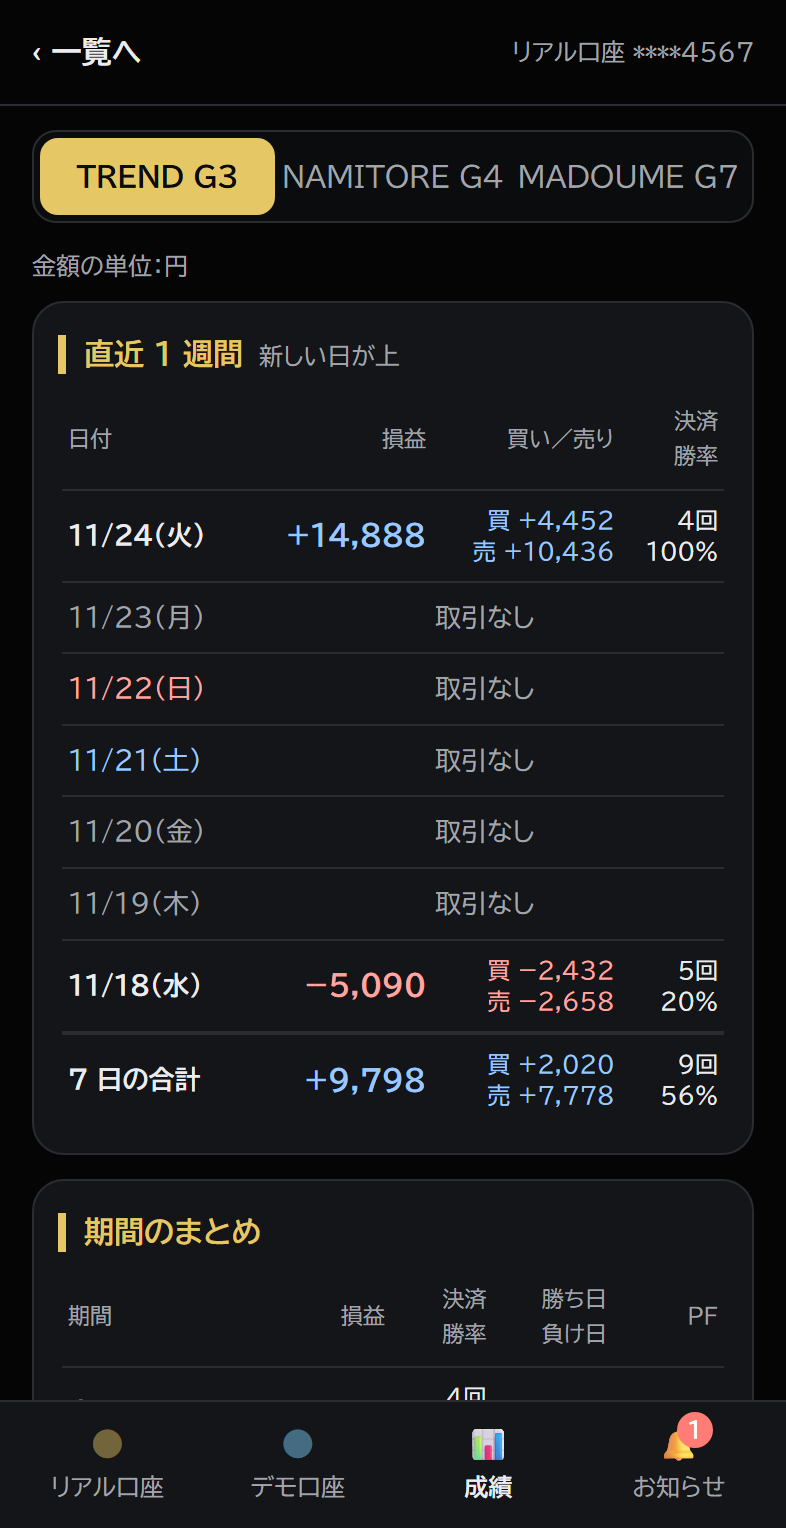
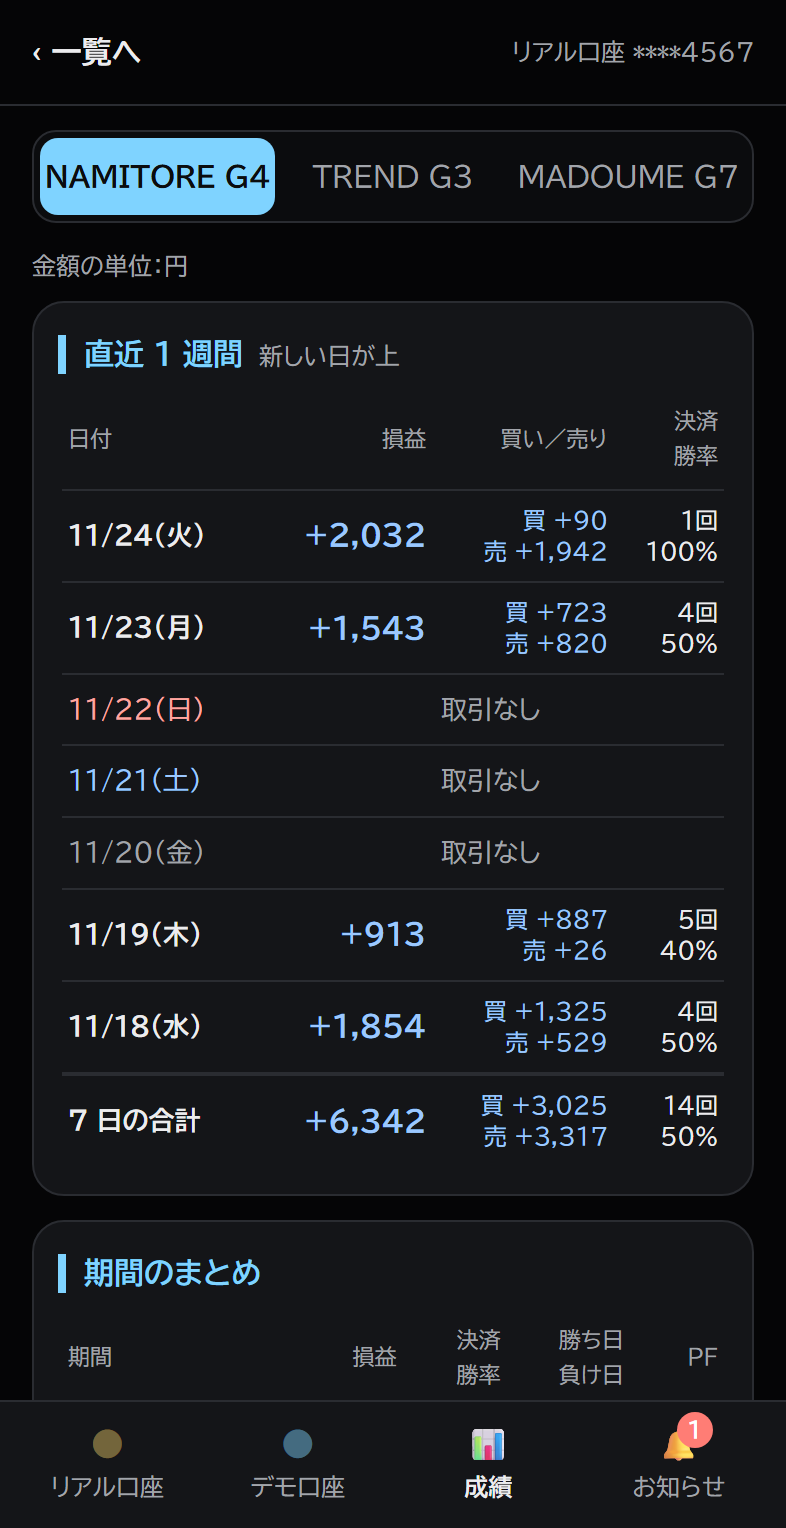
EA の並びを ナミ → トレ → マド に（トップ・メニュー・セットアップ・FAQ・リモート）、TOP の見出しを HAMA EA REPORT に

diff --git a/index.html b/index.html
@@ -50,7 +50,7 @@
   <button class="menu-btn" type="button" aria-label="メニュー" aria-expanded="false" onclick="var h=this.closest('header');var o=h.classList.toggle('open');this.setAttribute('aria-expanded',o)"><span></span><span></span><span></span></button>
   <nav class="menu">
     <a href="index.html" class="on">TOP</a>
-    <div class="dd"><button class="dd-btn" type="button" aria-haspopup="true" aria-expanded="false" onclick="var d=this.parentNode;var o=d.classList.toggle('open');this.setAttribute('aria-expanded',o)">EA<span class="dd-ar">▾</span></button><div class="dd-menu"><a href="tre.html">TREND G3</a><a href="nami.html">NAMITORE G4</a><a href="mado.html">MADOUME G7</a></div></div>
+    <div class="dd"><button class="dd-btn" type="button" aria-haspopup="true" aria-expanded="false" onclick="var d=this.parentNode;var o=d.classList.toggle('open');this.setAttribute('aria-expanded',o)">EA<span class="dd-ar">▾</span></button><div class="dd-menu"><a href="nami.html">NAMITORE G4</a><a href="tre.html">TREND G3</a><a href="mado.html">MADOUME G7</a></div></div>
     <a href="setup.html">SETUP</a>
     <a href="license.html">LICENSE</a>
     <a href="report.html">REPORT</a>
@@ -73,21 +73,21 @@
     <img class="hero-candles" src="img/hero_candles.svg?v=2" alt="">
    </div>
   </div>
-  <a class="hs-slide hs-ea" href="tre.html" style="--c:#d9b54a;--c2:#fff1b8" aria-roledescription="slide" aria-label="2 / 6">
-   <div class="hs-bg" style="background-image:url(img/trend_cover.jpg)"></div>
-   <div class="wrap hs-in">
-    <span class="hs-nick">トレンド追従</span>
-    <p class="hs-title">HAMA TREND G3</p>
-    <p class="hs-desc">トレンドが出ている間だけ、その方向に、<br>価格が逆に動くたび決まった間隔で<br>最大 3 本までポジションを足していく EA です。</p>
-    <span class="hs-more">VIEW MORE →</span>
-   </div>
-  </a>
-  <a class="hs-slide hs-ea" href="nami.html" style="--c:#4dc3ff;--c2:#bfe9ff" aria-roledescription="slide" aria-label="3 / 6">
+  <a class="hs-slide hs-ea" href="nami.html" style="--c:#4dc3ff;--c2:#bfe9ff" aria-roledescription="slide" aria-label="2 / 6">
    <div class="hs-bg" style="background-image:url(img/namitore_cover.jpg)"></div>
    <div class="wrap hs-in">
     <span class="hs-nick">レンジ（逆張り）</span>
     <p class="hs-title">HAMA NAMITORE G4</p>
     <p class="hs-desc">攻めと守りの「ダブルロジック」で、<br>金の“波”をとらえるレンジ EA。</p>
+    <span class="hs-more">VIEW MORE →</span>
+   </div>
+  </a>
+  <a class="hs-slide hs-ea" href="tre.html" style="--c:#d9b54a;--c2:#fff1b8" aria-roledescription="slide" aria-label="3 / 6">
+   <div class="hs-bg" style="background-image:url(img/trend_cover.jpg)"></div>
+   <div class="wrap hs-in">
+    <span class="hs-nick">トレンド追従</span>
+    <p class="hs-title">HAMA TREND G3</p>
+    <p class="hs-desc">トレンドが出ている間だけ、その方向に、<br>価格が逆に動くたび決まった間隔で<br>最大 3 本までポジションを足していく EA です。</p>
     <span class="hs-more">VIEW MORE →</span>
    </div>
   </a>
@@ -110,6 +110,7 @@
     </div>
     <div class="hs-phones"><img src="img/report_monitor.png" alt="成績表の画面のイメージ（架空の数値）"></div>
    </div>
+  </a>
   <a class="hs-slide hs-ea hs-remote" href="app.html" style="--c:#ff4f9a;--c2:#ffc2dc" aria-roledescription="slide" aria-label="6 / 6">
    <div class="wrap hs-in hs-split">
     <div>
@@ -160,21 +161,21 @@
   <p class="wait-note"><b>条件がそろうまで、じっと待つ EA です。</b><br>HAMA の EA は、決められた条件がそろったときだけエントリーします。短い時間にエントリーと決済を何度もくり返すタイプの EA ではないので、取引のない日が続くこともあります。</p>
   <h3 class="cat xau">ゴールド（XAUUSD）</h3>
   <div class="cards rows">
-    <a class="card ea-tre" href="tre.html">
-      <div class="img" style="background-image:url(img/trend_cover.jpg)"></div>
-      <div class="body">
-        <span class="nick">トレンド追従</span>
-        <h3>HAMA TREND G3</h3>
-        <p>トレンドが出ている間だけ、その方向に、<br>価格が逆に動くたび決まった間隔で最大 3 本まで<br>ポジションを足していく EA です。</p>
-        <span class="more">VIEW MORE <i>→</i></span>
-      </div>
-    </a>
     <a class="card ea-nami" href="nami.html">
       <div class="img" style="background-image:url(img/namitore_cover.jpg)"></div>
       <div class="body">
         <span class="nick">レンジ（逆張り）</span>
         <h3>HAMA NAMITORE G4</h3>
         <p>攻めと守りの「ダブルロジック」で、金の“波”をとらえるレンジ EA。</p>
+        <span class="more">VIEW MORE <i>→</i></span>
+      </div>
+    </a>
+    <a class="card ea-tre" href="tre.html">
+      <div class="img" style="background-image:url(img/trend_cover.jpg)"></div>
+      <div class="body">
+        <span class="nick">トレンド追従</span>
+        <h3>HAMA TREND G3</h3>
+        <p>トレンドが出ている間だけ、その方向に、<br>価格が逆に動くたび決まった間隔で最大 3 本まで<br>ポジションを足していく EA です。</p>
         <span class="more">VIEW MORE <i>→</i></span>
       </div>
     </a>
@@ -191,7 +192,7 @@
 </div></section>
 
 <section><div class="wrap">
-  <h2>成績表</h2>
+  <h2>HAMA EA REPORT</h2>
   <p class="sub">HAMA の EA には、口座の成績をまとめて見られる成績表が付いています。</p>
   <div class="cards rows">
     <a class="card ea-report" href="report.html">

diff --git a/faq.html b/faq.html
@@ -17,7 +17,7 @@
   <button class="menu-btn" type="button" aria-label="メニュー" aria-expanded="false" onclick="var h=this.closest('header');var o=h.classList.toggle('open');this.setAttribute('aria-expanded',o)"><span></span><span></span><span></span></button>
   <nav class="menu">
     <a href="index.html">TOP</a>
-    <div class="dd"><button class="dd-btn" type="button" aria-haspopup="true" aria-expanded="false" onclick="var d=this.parentNode;var o=d.classList.toggle('open');this.setAttribute('aria-expanded',o)">EA<span class="dd-ar">▾</span></button><div class="dd-menu"><a href="tre.html">TREND G3</a><a href="nami.html">NAMITORE G4</a><a href="mado.html">MADOUME G7</a></div></div>
+    <div class="dd"><button class="dd-btn" type="button" aria-haspopup="true" aria-expanded="false" onclick="var d=this.parentNode;var o=d.classList.toggle('open');this.setAttribute('aria-expanded',o)">EA<span class="dd-ar">▾</span></button><div class="dd-menu"><a href="nami.html">NAMITORE G4</a><a href="tre.html">TREND G3</a><a href="mado.html">MADOUME G7</a></div></div>
     <a href="setup.html">SETUP</a>
     <a href="license.html">LICENSE</a>
     <a href="report.html">REPORT</a>
@@ -39,7 +39,7 @@
 <section><div class="wrap">
   <h2>はじめる前に</h2>
   <details><summary>EA ごとのちがいは？</summary><div class="a">
-    <p>EA ごとに、取引の考え方（ロジック）がちがいます。TREND は大きなトレンドの方向に建てる EA、NAMITORE は行ったり来たりの値動き（レンジ）で逆張りする EA、MADOUME はトレンド中の押し目・戻りで積み増す EA です。くわしい動き方は、各 EA のページと説明書をご覧ください。</p>
+    <p>EA ごとに、取引の考え方（ロジック）がちがいます。NAMITORE は行ったり来たりの値動き（レンジ）で逆張りする EA、TREND は大きなトレンドの方向に建てる EA、MADOUME はトレンド中の押し目・戻りで積み増す EA です。くわしい動き方は、各 EA のページと説明書をご覧ください。</p>
     <p>どの EA を使うか、いくつ組み合わせるかは、ご自身でご判断ください。</p>
   </div></details>
   <details><summary>ミニ口座とスタンダード口座、どちらで使えますか？</summary><div class="a">
@@ -47,7 +47,7 @@
     <p>スタンダード口座は最小ロットが大きいので、資金が少ないと、本来より少ない本数で動きます（「スタンダード対応」の機能）。</p>
   </div></details>
   <details><summary>ロットはどう決まりますか？</summary><div class="a">
-    <p>どの EA も、残高と設定（リスク % など）から自動で計算します。初期値で計算した例を、<a href="tre.html">TREND</a>・<a href="nami.html">NAMITORE</a>・<a href="mado.html">MADOUME</a> の各ページに載せています。使う資金の額は、ご自身でご判断ください。</p>
+    <p>どの EA も、残高と設定（リスク % など）から自動で計算します。初期値で計算した例を、<a href="nami.html">NAMITORE</a>・<a href="tre.html">TREND</a>・<a href="mado.html">MADOUME</a> の各ページに載せています。使う資金の額は、ご自身でご判断ください。</p>
   </div></details>
   <details><summary>マーチンやナンピンはしますか？</summary><div class="a">
     <p>しません。ロットを倍々に増やすことはなく、どの EA も損切りを先に決めています。TREND と MADOUME の「買い増し・積み増し」は、同じロットで本数に上限があり、全体の損失も決まった範囲に収まるようにしています。</p>

diff --git a/remote.html b/remote.html
@@ -307,11 +307,11 @@ h2{font-size:15px;margin:2px 0 8px}
 <script>
 const API = 'https://script.google.com/macros/s/AKfycbxVILsMUm1UMdNhgRQVQgXre6H6Kc50SF3V2KBowSc4ORi4PsX-drc23v-SNNxlBR5H/exec';
 const MOCK = /[?&]mock=1/.test(location.search);
-const EA = { TRE: ['TREND G3', 'tre'], NAMI: ['NAMITORE G4', 'nami'], MADO: ['MADOUME G7', 'mado'] };
+const EA = { NAMI: ['NAMITORE G4', 'nami'], TRE: ['TREND G3', 'tre'], MADO: ['MADOUME G7', 'mado'] };
 const LOTN = ['攻め', '標準', '守り'];
 const LOST_MS = 6 * 60 * 1000;   // これより長く連絡がなければ「オフライン」
 // このページの版（アップのたびに変える）。開いたとき・戻ってきたときに新しい版があれば、自動で読み込み直す
-const PAGE_VER = '20261124u';
+const PAGE_VER = '20261124v';
 async function checkVer() {
   try {
     const t = await (await fetch(location.pathname + '?v=' + Date.now(), { cache: 'no-store' })).text();
@@ -500,7 +500,7 @@ function renderHome() {
   $('dsum').textContent = money(day + opn, c); $('dsum').className = 'pv ' + cls(day + opn);
   const bad = us.filter(u => status(u)[0] === 'bad');
   $('alerts').innerHTML = bad.map(u => `<div class="alert">⚠ ${EA[u.ea] ? EA[u.ea][0] : u.ea}：${status(u)[1] === 'オフライン' ? 'オフラインです' : status(u)[1]}。${status(u)[1] === 'オフライン' ? 'MT5 やパソコンを確認してください。' : ''}</div>`).join('');
-  const order = ['TRE', 'NAMI', 'MADO'];
+  const order = ['NAMI', 'TRE', 'MADO'];   // ナミが主役（いちばん上）
   us.sort((a, b) => order.indexOf(a.ea) - order.indexOf(b.ea));
   $('ealist').innerHTML = us.map(u => { const e = EA[u.ea] || [u.ea, 'tre'], st = status(u), d = u.s ? u.s.opn : '', dd = u.s ? u.s.day : '';
     return `<button class="ea" style="--c:var(--${e[1]})" data-u="${u.unit}"><span class="bar"></span><span><div class="nm">${e[0]}</div><div class="st ${st[0]}"><i></i>${st[1]}</div>${st[1] !== 'オフライン' && detailOf(u) ? `<div class="dt">${esc(detailOf(u).split('\n')[0])}</div>` : ''}</span><span><div class="lbl" style="text-align:right">含み損益</div><div class="pl ${cls(d)}">${money(d, c)}</div><div class="pls" style="text-align:right">決済 <b class="${cls(dd)}">${money(dd, c)}</b></div></span><span class="ch">›</span></button>`; }).join('');
@@ -575,7 +575,7 @@ function agg(rows) {
 }
 const pfs = v => isFinite(v) ? v.toFixed(2) : (v === Infinity ? '—（負けなし）' : '—');
 const winp = r => r.n ? Math.round(r.w / r.n * 100) + '%' : '—';
-function scoreUnits() { const accs = accounts(); return accSel && accs[accSel] ? accs[accSel].slice().sort((a, b) => ['TRE', 'NAMI', 'MADO'].indexOf(a.ea) - ['TRE', 'NAMI', 'MADO'].indexOf(b.ea)) : []; }
+function scoreUnits() { const accs = accounts(); return accSel && accs[accSel] ? accs[accSel].slice().sort((a, b) => ['NAMI', 'TRE', 'MADO'].indexOf(a.ea) - ['NAMI', 'TRE', 'MADO'].indexOf(b.ea)) : []; }
 async function openScore() {
   const us = scoreUnits();
   if (!us.length) { alert('この口座で動いている EA がありません'); return; }

diff --git a/setup.html b/setup.html
@@ -17,7 +17,7 @@
   <button class="menu-btn" type="button" aria-label="メニュー" aria-expanded="false" onclick="var h=this.closest('header');var o=h.classList.toggle('open');this.setAttribute('aria-expanded',o)"><span></span><span></span><span></span></button>
   <nav class="menu">
     <a href="index.html">TOP</a>
-    <div class="dd"><button class="dd-btn" type="button" aria-haspopup="true" aria-expanded="false" onclick="var d=this.parentNode;var o=d.classList.toggle('open');this.setAttribute('aria-expanded',o)">EA<span class="dd-ar">▾</span></button><div class="dd-menu"><a href="tre.html">TREND G3</a><a href="nami.html">NAMITORE G4</a><a href="mado.html">MADOUME G7</a></div></div>
+    <div class="dd"><button class="dd-btn" type="button" aria-haspopup="true" aria-expanded="false" onclick="var d=this.parentNode;var o=d.classList.toggle('open');this.setAttribute('aria-expanded',o)">EA<span class="dd-ar">▾</span></button><div class="dd-menu"><a href="nami.html">NAMITORE G4</a><a href="tre.html">TREND G3</a><a href="mado.html">MADOUME G7</a></div></div>
     <a href="setup.html" class="on">SETUP</a>
     <a href="license.html">LICENSE</a>
     <a href="report.html">REPORT</a>
@@ -104,8 +104,8 @@
   <h2>各 EA の説明書</h2>
   <p class="sub">設定の項目やパネルの見方は、各 EA の説明書にあります。EA のパネルの「説明」ボタンでも開けます。</p>
   <ul class="check">
-    <li><a href="tre.html">HAMA TREND G3</a></li>
     <li><a href="nami.html">HAMA NAMITORE G4</a></li>
+    <li><a href="tre.html">HAMA TREND G3</a></li>
     <li><a href="mado.html">HAMA MADOUME G7</a></li>
   </ul>
 </div></section>

diff --git a/style.css b/style.css
@@ -94,7 +94,7 @@ h3 { font-size: 19px; margin: 28px 0 8px; color: var(--gold2); }
 .cards.rows .card .body { padding: 22px 26px; justify-content: center; }
 .cards.rows .card h3 { font-size: 22px; }
 .cards.rows .card p { font-size: 16px; }
-/* EA ごとの色（各 EA の説明書のテーマ色: TREND = ゴールド / NAMITORE = 海の青 / MADOUME = グリーン） */
+/* EA ごとの色（各 EA の説明書のテーマ色: NAMITORE = 海の青 / TREND = ゴールド / MADOUME = グリーン） */
 .card.ea-tre  { --c: #d9b54a; --c2: #fff1b8; --cbg: #2c2817; }
 .card.ea-nami { --c: #4dc3ff; --c2: #bfe9ff; --cbg: #0c2440; }
 .card.ea-mado { --c: #4fc27f; --c2: #c9f2d9; --cbg: #17281e; }
@@ -356,7 +356,7 @@ h2.big-h { font-size: clamp(22px, 2.4vw, 30px); letter-spacing: .02em; margin-bo
   .demo-cta .cta-grid { grid-template-columns: 1fr; }
   .demo-cta .cta-grid .cta-btn { justify-self: stretch; text-align: center; }
 }
-/* トップ: 5 秒ごとに切り替わるバナー（ブランド → TREND → NAMITORE → MADOUME → REPORT） */
+/* トップ: 5 秒ごとに切り替わるバナー（ブランド → NAMITORE → TREND → MADOUME → REPORT → REMOTE） */
 .hslider { position: relative; background: #0b0c0f; border-bottom: 1px solid var(--line); }
 .hs-track { display: grid; }
 .hs-slide { grid-area: 1 / 1; opacity: 0; visibility: hidden; transition: opacity .8s ease, visibility 0s linear .8s; }

diff --git a/app.html b/app.html
@@ -67,7 +67,7 @@ main a:not(.btn):active { color: #1a0b12; background: var(--pk); }
   <button class="menu-btn" type="button" aria-label="メニュー" aria-expanded="false" onclick="var h=this.closest('header');var o=h.classList.toggle('open');this.setAttribute('aria-expanded',o)"><span></span><span></span><span></span></button>
   <nav class="menu">
     <a href="index.html">TOP</a>
-    <div class="dd"><button class="dd-btn" type="button" aria-haspopup="true" aria-expanded="false" onclick="var d=this.parentNode;var o=d.classList.toggle('open');this.setAttribute('aria-expanded',o)">EA<span class="dd-ar">▾</span></button><div class="dd-menu"><a href="tre.html">TREND G3</a><a href="nami.html">NAMITORE G4</a><a href="mado.html">MADOUME G7</a></div></div>
+    <div class="dd"><button class="dd-btn" type="button" aria-haspopup="true" aria-expanded="false" onclick="var d=this.parentNode;var o=d.classList.toggle('open');this.setAttribute('aria-expanded',o)">EA<span class="dd-ar">▾</span></button><div class="dd-menu"><a href="nami.html">NAMITORE G4</a><a href="tre.html">TREND G3</a><a href="mado.html">MADOUME G7</a></div></div>
     <a href="setup.html">SETUP</a>
     <a href="license.html">LICENSE</a>
     <a href="report.html">REPORT</a>

diff --git a/mado.html b/mado.html
@@ -303,7 +303,7 @@ body{overflow-wrap:anywhere}
 <button class="mb" type="button" aria-label="メニュー" aria-expanded="false" onclick="var o=document.getElementById('hama-bar').classList.toggle('open');this.setAttribute('aria-expanded',o)"><span></span><span></span><span></span></button>
 <div class="lk">
 <a href="index.html">TOP</a>
-<div class="dd"><button class="dd-btn" type="button" aria-haspopup="true" aria-expanded="false" onclick="var d=this.parentNode;var o=d.classList.toggle('open');this.setAttribute('aria-expanded',o)">EA<span class="dd-ar">▾</span></button><div class="dd-menu"><a class="m" href="tre.html">TREND G3</a><a class="m" href="nami.html">NAMITORE G4</a><a class="m on" href="mado.html">MADOUME G7</a></div></div>
+<div class="dd"><button class="dd-btn" type="button" aria-haspopup="true" aria-expanded="false" onclick="var d=this.parentNode;var o=d.classList.toggle('open');this.setAttribute('aria-expanded',o)">EA<span class="dd-ar">▾</span></button><div class="dd-menu"><a class="m" href="nami.html">NAMITORE G4</a><a class="m" href="tre.html">TREND G3</a><a class="m on" href="mado.html">MADOUME G7</a></div></div>
 <a href="setup.html">SETUP</a>
 <a href="license.html">LICENSE</a>
 <a href="report.html">REPORT</a>

diff --git a/nami.html b/nami.html
@@ -223,7 +223,7 @@ body{overflow-wrap:anywhere}
 <button class="mb" type="button" aria-label="メニュー" aria-expanded="false" onclick="var o=document.getElementById('hama-bar').classList.toggle('open');this.setAttribute('aria-expanded',o)"><span></span><span></span><span></span></button>
 <div class="lk">
 <a href="index.html">TOP</a>
-<div class="dd"><button class="dd-btn" type="button" aria-haspopup="true" aria-expanded="false" onclick="var d=this.parentNode;var o=d.classList.toggle('open');this.setAttribute('aria-expanded',o)">EA<span class="dd-ar">▾</span></button><div class="dd-menu"><a class="m" href="tre.html">TREND G3</a><a class="m on" href="nami.html">NAMITORE G4</a><a class="m" href="mado.html">MADOUME G7</a></div></div>
+<div class="dd"><button class="dd-btn" type="button" aria-haspopup="true" aria-expanded="false" onclick="var d=this.parentNode;var o=d.classList.toggle('open');this.setAttribute('aria-expanded',o)">EA<span class="dd-ar">▾</span></button><div class="dd-menu"><a class="m on" href="nami.html">NAMITORE G4</a><a class="m" href="tre.html">TREND G3</a><a class="m" href="mado.html">MADOUME G7</a></div></div>
 <a href="setup.html">SETUP</a>
 <a href="license.html">LICENSE</a>
 <a href="report.html">REPORT</a>

diff --git a/tre.html b/tre.html
@@ -596,7 +596,7 @@ body{overflow-wrap:anywhere}
 <button class="mb" type="button" aria-label="メニュー" aria-expanded="false" onclick="var o=document.getElementById('hama-bar').classList.toggle('open');this.setAttribute('aria-expanded',o)"><span></span><span></span><span></span></button>
 <div class="lk">
 <a href="index.html">TOP</a>
-<div class="dd"><button class="dd-btn" type="button" aria-haspopup="true" aria-expanded="false" onclick="var d=this.parentNode;var o=d.classList.toggle('open');this.setAttribute('aria-expanded',o)">EA<span class="dd-ar">▾</span></button><div class="dd-menu"><a class="m on" href="tre.html">TREND G3</a><a class="m" href="nami.html">NAMITORE G4</a><a class="m" href="mado.html">MADOUME G7</a></div></div>
+<div class="dd"><button class="dd-btn" type="button" aria-haspopup="true" aria-expanded="false" onclick="var d=this.parentNode;var o=d.classList.toggle('open');this.setAttribute('aria-expanded',o)">EA<span class="dd-ar">▾</span></button><div class="dd-menu"><a class="m" href="nami.html">NAMITORE G4</a><a class="m on" href="tre.html">TREND G3</a><a class="m" href="mado.html">MADOUME G7</a></div></div>
 <a href="setup.html">SETUP</a>
 <a href="license.html">LICENSE</a>
 <a href="report.html">REPORT</a>

diff --git a/license.html b/license.html
@@ -17,7 +17,7 @@
   <button class="menu-btn" type="button" aria-label="メニュー" aria-expanded="false" onclick="var h=this.closest('header');var o=h.classList.toggle('open');this.setAttribute('aria-expanded',o)"><span></span><span></span><span></span></button>
   <nav class="menu">
     <a href="index.html">TOP</a>
-    <div class="dd"><button class="dd-btn" type="button" aria-haspopup="true" aria-expanded="false" onclick="var d=this.parentNode;var o=d.classList.toggle('open');this.setAttribute('aria-expanded',o)">EA<span class="dd-ar">▾</span></button><div class="dd-menu"><a href="tre.html">TREND G3</a><a href="nami.html">NAMITORE G4</a><a href="mado.html">MADOUME G7</a></div></div>
+    <div class="dd"><button class="dd-btn" type="button" aria-haspopup="true" aria-expanded="false" onclick="var d=this.parentNode;var o=d.classList.toggle('open');this.setAttribute('aria-expanded',o)">EA<span class="dd-ar">▾</span></button><div class="dd-menu"><a href="nami.html">NAMITORE G4</a><a href="tre.html">TREND G3</a><a href="mado.html">MADOUME G7</a></div></div>
     <a href="setup.html">SETUP</a>
     <a href="license.html" class="on">LICENSE</a>
     <a href="report.html">REPORT</a>

diff --git a/report.html b/report.html
@@ -17,7 +17,7 @@
   <button class="menu-btn" type="button" aria-label="メニュー" aria-expanded="false" onclick="var h=this.closest('header');var o=h.classList.toggle('open');this.setAttribute('aria-expanded',o)"><span></span><span></span><span></span></button>
   <nav class="menu">
     <a href="index.html">TOP</a>
-    <div class="dd"><button class="dd-btn" type="button" aria-haspopup="true" aria-expanded="false" onclick="var d=this.parentNode;var o=d.classList.toggle('open');this.setAttribute('aria-expanded',o)">EA<span class="dd-ar">▾</span></button><div class="dd-menu"><a href="tre.html">TREND G3</a><a href="nami.html">NAMITORE G4</a><a href="mado.html">MADOUME G7</a></div></div>
+    <div class="dd"><button class="dd-btn" type="button" aria-haspopup="true" aria-expanded="false" onclick="var d=this.parentNode;var o=d.classList.toggle('open');this.setAttribute('aria-expanded',o)">EA<span class="dd-ar">▾</span></button><div class="dd-menu"><a href="nami.html">NAMITORE G4</a><a href="tre.html">TREND G3</a><a href="mado.html">MADOUME G7</a></div></div>
     <a href="setup.html">SETUP</a>
     <a href="license.html">LICENSE</a>
     <a href="report.html" class="on">REPORT</a>

diff --git a/news.html b/news.html
@@ -17,7 +17,7 @@
   <button class="menu-btn" type="button" aria-label="メニュー" aria-expanded="false" onclick="var h=this.closest('header');var o=h.classList.toggle('open');this.setAttribute('aria-expanded',o)"><span></span><span></span><span></span></button>
   <nav class="menu">
     <a href="index.html">TOP</a>
-    <div class="dd"><button class="dd-btn" type="button" aria-haspopup="true" aria-expanded="false" onclick="var d=this.parentNode;var o=d.classList.toggle('open');this.setAttribute('aria-expanded',o)">EA<span class="dd-ar">▾</span></button><div class="dd-menu"><a href="tre.html">TREND G3</a><a href="nami.html">NAMITORE G4</a><a href="mado.html">MADOUME G7</a></div></div>
+    <div class="dd"><button class="dd-btn" type="button" aria-haspopup="true" aria-expanded="false" onclick="var d=this.parentNode;var o=d.classList.toggle('open');this.setAttribute('aria-expanded',o)">EA<span class="dd-ar">▾</span></button><div class="dd-menu"><a href="nami.html">NAMITORE G4</a><a href="tre.html">TREND G3</a><a href="mado.html">MADOUME G7</a></div></div>
     <a href="setup.html">SETUP</a>
     <a href="license.html">LICENSE</a>
     <a href="report.html">REPORT</a>
